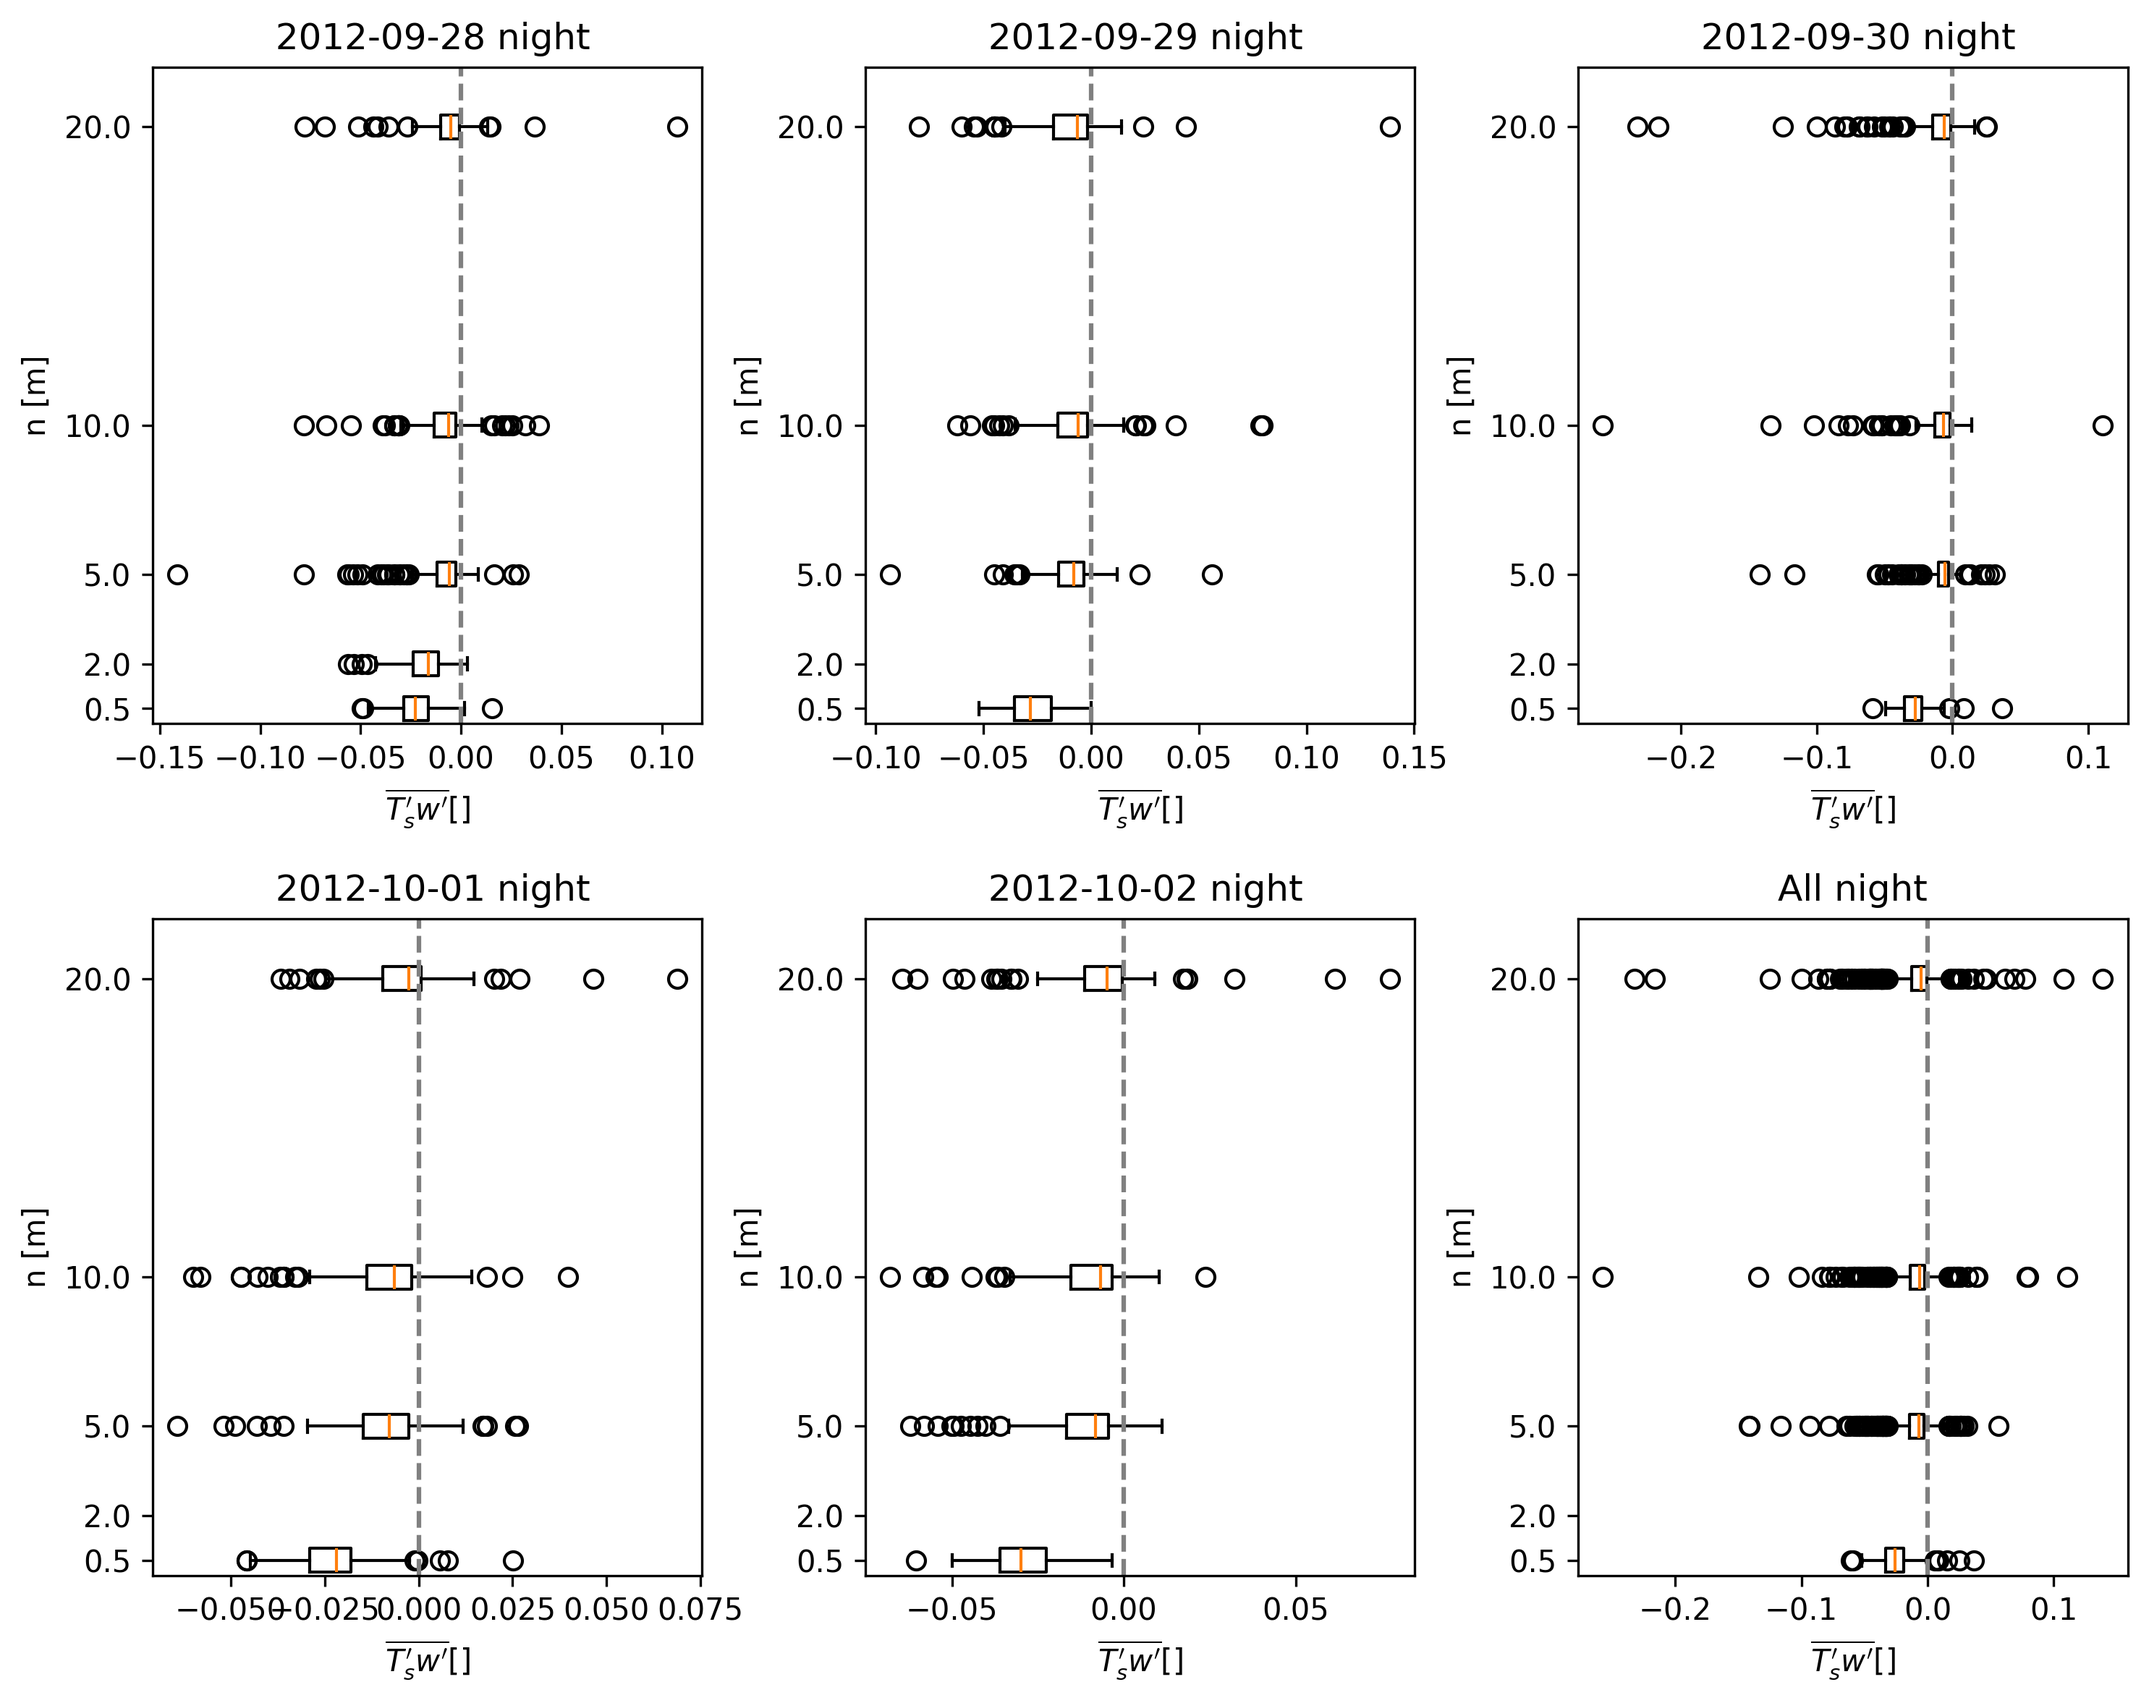
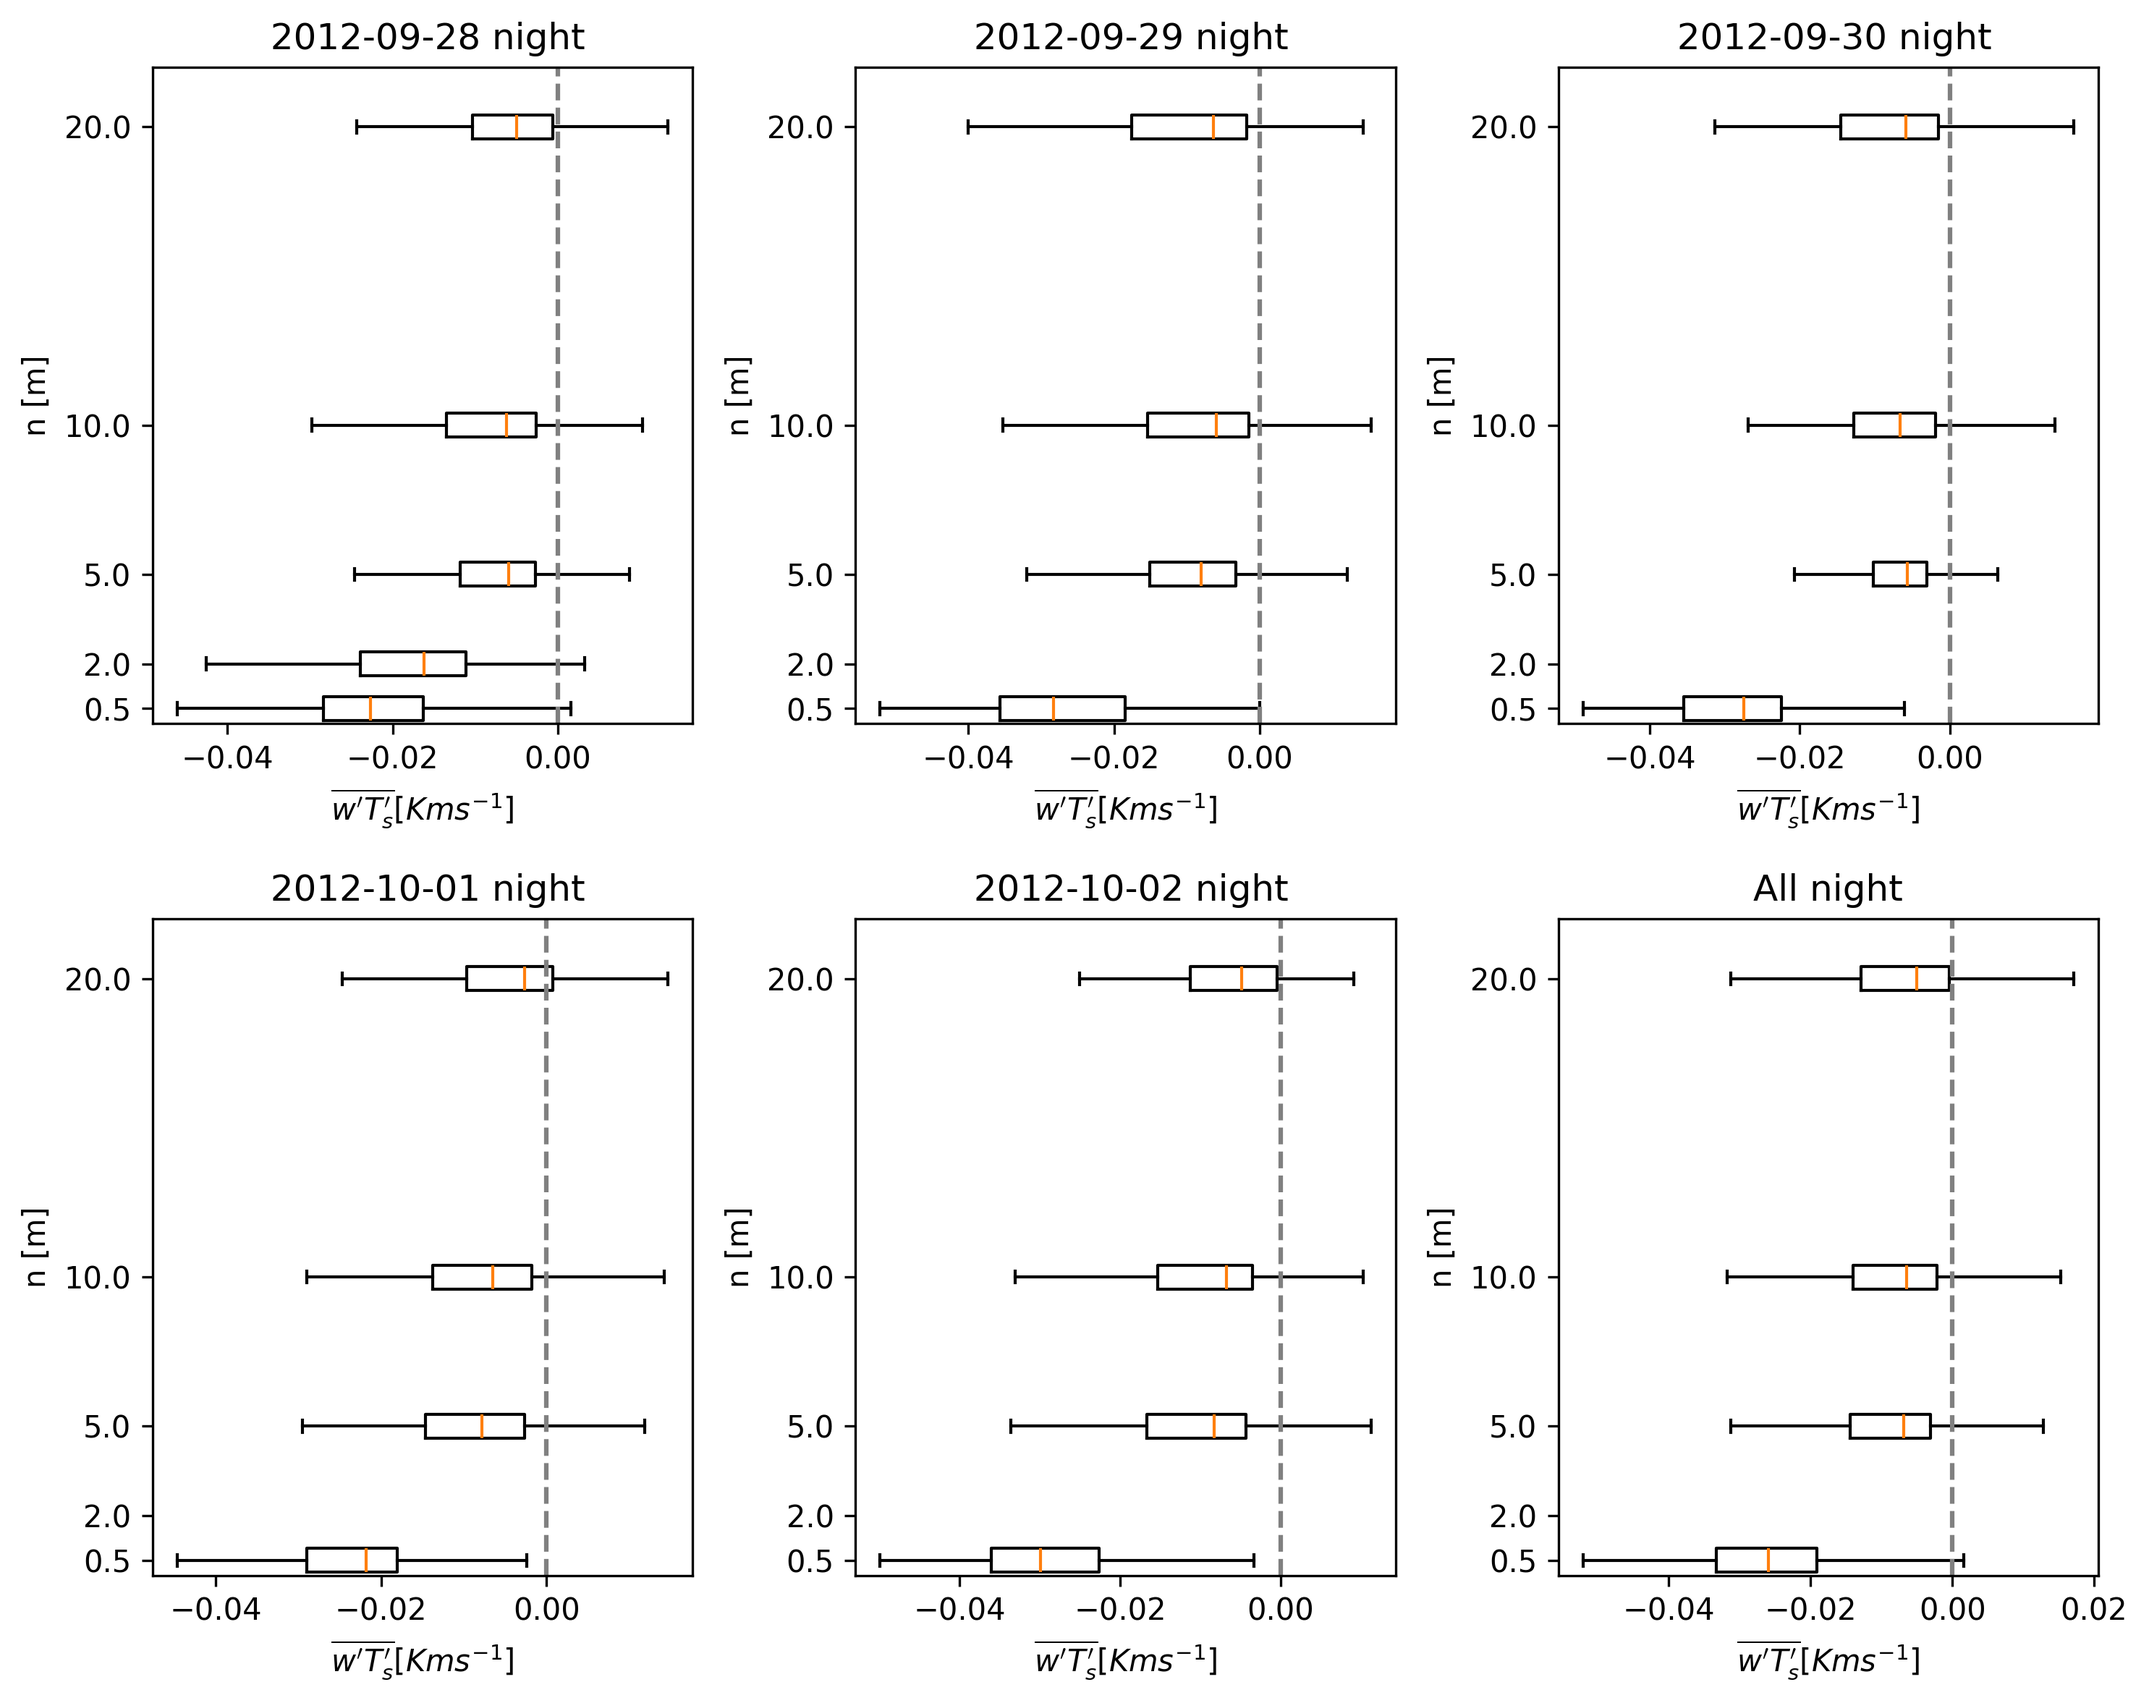
add tke(n) u'Ts'(n) boxplots

diff --git a/granite/plot.py b/granite/plot.py
@@ -47,7 +47,7 @@ all = pd.concat(h, axis=1).sort_index() #one df with columns' names: *_sn1, *_sn
 if all.index.tz is None:
     all.index = all.index.tz_localize('UTC') # all in UTC
 #print(all)
-#print(all.columns)
+print(all.columns)
 #print("max timestamp",all.date.max())
 #print("min timestamp",all.date.min())
 
@@ -99,7 +99,7 @@ for day in unique_days:
         'sunset_local': sunset_local
     })
 for item in sun_schedule:
-    print(f"Giorno: {item['date']} | Sunrise: {item['sunrise_utc']} | Sunset: {item['sunset_utc']}")
+   print(f"Giorno: {item['date']} | Sunrise: {item['sunrise_utc']} | Sunset: {item['sunset_utc']}")
 
 ################################################## PLOT
 
@@ -187,24 +187,24 @@ plt.savefig(f"downU_{number_of_day}d_{hours_start}h_{hours_end}h.png", bbox_inch
 
 
 ############################################# box U(n)
-dataset = [] # [ [0.5 2 5 10 20], [day 2], ...  ] divided by night
+datasetU = [] # [ [0.5 2 5 10 20], [day 2], ...  ] divided by night
 for item in sun_schedule:
     list = [] #all levels in one night
     for i in range(5):
         list.append( all[f'wsp_sn{i+1}'][ (all.index > item['sunset_utc']) & (all.index < item['sunrise_utc']) ])
-    dataset.append(list)
+    datasetU.append(list)
 
 all_u_night = [] #[0.5 2 5 10 20] for all night
 for i in range(5):
     level_list = [] #all night, one level
-    for n_night in range(len(dataset)):
-        level_list.append(dataset[n_night][i])
+    for n_night in range(len(datasetU)):
+        level_list.append(datasetU[n_night][i])
     all_u_night.append( pd.concat(level_list, axis=0).sort_index() )#df all night, one level
-dataset.append(all_u_night)
+datasetU.append(all_u_night)
 
 fig, axes = plt.subplots(2,3,figsize=(10,8))
 for i, ax in enumerate(axes.flat):
-    ax.boxplot(dataset[i], positions=n, vert=False, widths=0.8)
+    ax.boxplot(datasetU[i], positions=n, vert=False, widths=0.8, showfliers=False)
     ax.set_ylim(0,22)
     ax.set_xlabel('U [m/s]')
     ax.set_ylabel('n [m]')
@@ -217,24 +217,24 @@ plt.tight_layout()
 plt.savefig(f"u_n_box.png", bbox_inches='tight', dpi=300)
 
 ############################################# box u'w'
-dataset = [] # [ [0.5 2 5 10 20], [day 2], ...  ] divided by night
+datasetUW = [] # [ [0.5 2 5 10 20], [day 2], ...  ] divided by night
 for item in sun_schedule:
     list = [] #all levels in one night
     for i in range(5):
         list.append( all[f'wu_cov_sn{i+1}'][ (all.index > item['sunset_utc']) & (all.index < item['sunrise_utc']) ])
-    dataset.append(list)
+    datasetUW.append(list)
 
 all_u_night = [] #[0.5 2 5 10 20] for all night
 for i in range(5):
     level_list = [] #all night, one level
-    for n_night in range(len(dataset)):
-        level_list.append(dataset[n_night][i])
+    for n_night in range(len(datasetUW)):
+        level_list.append(datasetUW[n_night][i])
     all_u_night.append( pd.concat(level_list, axis=0).sort_index() )#df all night, one level
-dataset.append(all_u_night)
+datasetUW.append(all_u_night)
 
 fig, axes = plt.subplots(2,3,figsize=(10,8))
 for i, ax in enumerate(axes.flat):
-    ax.boxplot(dataset[i], positions=n, vert=False, widths=0.8)
+    ax.boxplot(datasetUW[i], positions=n, vert=False, widths=0.8, showfliers=False)
     ax.axvline(x=0, color='gray', linestyle='--')
     ax.set_ylim(0,22)
     ax.set_xlabel(r"$\overline{u'w'} [m^2/s^{-2}]$")
@@ -248,27 +248,27 @@ plt.tight_layout()
 plt.savefig(f"uw_box.png", bbox_inches='tight', dpi=300)
 
 ############################################# box Ts'w'
-dataset = [] # [ [0.5 2 5 10 20], [day 2], ...  ] divided by night
+datasetWT = [] # [ [0.5 2 5 10 20], [day 2], ...  ] divided by night
 for item in sun_schedule:
     list = [] #all levels in one night
     for i in range(5):
         list.append( all[f'wT_cov_sn{i+1}'][ (all.index > item['sunset_utc']) & (all.index < item['sunrise_utc']) ])
-    dataset.append(list)
+    datasetWT.append(list)
 
 all_u_night = [] #[0.5 2 5 10 20] for all night
 for i in range(5):
     level_list = [] #all night, one level
-    for n_night in range(len(dataset)):
-        level_list.append(dataset[n_night][i])
+    for n_night in range(len(datasetWT)):
+        level_list.append(datasetWT[n_night][i])
     all_u_night.append( pd.concat(level_list, axis=0).sort_index() )#df all night, one level
-dataset.append(all_u_night)
+datasetWT.append(all_u_night)
 
 fig, axes = plt.subplots(2,3,figsize=(10,8))
 for i, ax in enumerate(axes.flat):
-    ax.boxplot(dataset[i], positions=n, vert=False, widths=0.8)
+    ax.boxplot(datasetWT[i], positions=n, vert=False, widths=0.8, showfliers=False)
     ax.axvline(x=0, color='gray', linestyle='--')
     ax.set_ylim(0,22)
-    ax.set_xlabel(r"$\overline{T_s'w'} []$")
+    ax.set_xlabel(r"$\overline{w'T_s'} [Kms^{-1}]$")
     ax.set_ylabel('n [m]')
     if i == 5:
         ax.set_title('All night')
@@ -277,6 +277,71 @@ for i, ax in enumerate(axes.flat):
         ax.set_title(f' {day} night')
 plt.tight_layout()
 plt.savefig(f"theta_w_box.png", bbox_inches='tight', dpi=300)
+
+############################################# box u'Ts'
+datasetUT = [] # [ [0.5 2 5 10 20], [day 2], ...  ] divided by night
+for item in sun_schedule:
+    list = [] #all levels in one night
+    for i in range(5):
+        list.append( all[f'uT_cov_sn{i+1}'][ (all.index > item['sunset_utc']) & (all.index < item['sunrise_utc']) ])
+    datasetUT.append(list)
+
+all_u_night = [] #[0.5 2 5 10 20] for all night
+for i in range(5):
+    level_list = [] #all night, one level
+    for n_night in range(len(datasetUT)):
+        level_list.append(datasetUT[n_night][i])
+    all_u_night.append( pd.concat(level_list, axis=0).sort_index() )#df all night, one level
+datasetUT.append(all_u_night)
+
+fig, axes = plt.subplots(2,3,figsize=(10,8))
+for i, ax in enumerate(axes.flat):
+    ax.boxplot(datasetUT[i], positions=n, vert=False, widths=0.8, showfliers=False)
+    ax.axvline(x=0, color='gray', linestyle='--')
+    ax.set_ylim(0,22)
+    ax.set_xlabel(r"$\overline{u'T_s'} [Kms^{-1}]$")
+    ax.set_ylabel('n [m]')
+    if i == 5:
+        ax.set_title('All night')
+    else:
+        day = sun_schedule[i]['date']
+        ax.set_title(f' {day} night')
+plt.tight_layout()
+plt.savefig(f"theta_u_box.png", bbox_inches='tight', dpi=300)
+
+############################################# box TKE
+TKE = [] # [ [0.5 2 5 10 20], [day 2], ...  ] divided by night
+for item in sun_schedule:
+    list = [] #all levels in one night
+    for i in range(5):
+        u2 = all[f'sigu_cov_sn{i+1}'][ (all.index > item['sunset_utc']) & (all.index < item['sunrise_utc']) ] ** 2
+        v2 = all[f'sigv_cov_sn{i+1}'][ (all.index > item['sunset_utc']) & (all.index < item['sunrise_utc']) ] ** 2
+        w2 = all[f'sigw_cov_sn{i+1}'][ (all.index > item['sunset_utc']) & (all.index < item['sunrise_utc']) ] ** 2
+        list.append( u2 + v2 + w2 )
+    TKE.append(list)
+
+all_TKE_night = [] #[0.5 2 5 10 20] for all night
+for i in range(5):
+    level_list = [] #all night, one level
+    for n_night in range(len(TKE)):
+        level_list.append(TKE[n_night][i])
+    all_TKE_night.append( pd.concat(level_list, axis=0).sort_index() )#df all night, one level
+TKE.append(all_TKE_night)
+
+fig, axes = plt.subplots(2,3,figsize=(10,8))
+for i, ax in enumerate(axes.flat):
+    ax.boxplot(TKE[i], positions=n, vert=False, widths=0.8, showfliers=False)
+    ax.set_ylim(0,22)
+    #ax.set_xlim(0,1)
+    ax.set_xlabel(r"TKE $[m^2s^{-2}]$")
+    ax.set_ylabel('n [m]')
+    if i == 5:
+        ax.set_title('All night')
+    else:
+        day = sun_schedule[i]['date']
+        ax.set_title(f' {day} night')
+plt.tight_layout()
+plt.savefig(f"tke_box.png", bbox_inches='tight', dpi=300)
 
 #plt.show()
 
